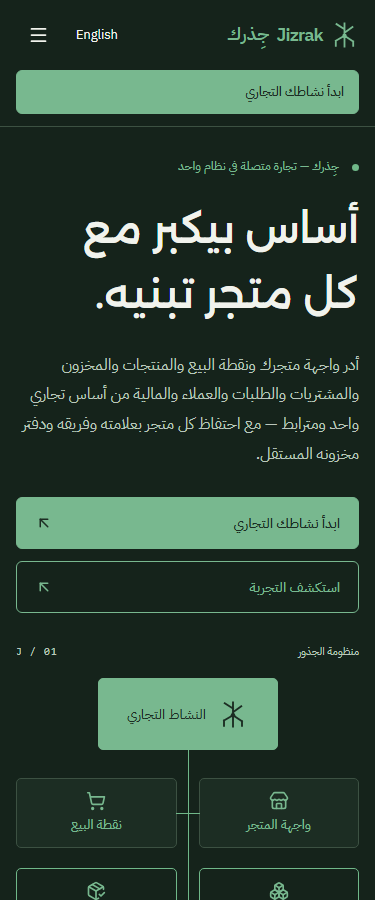
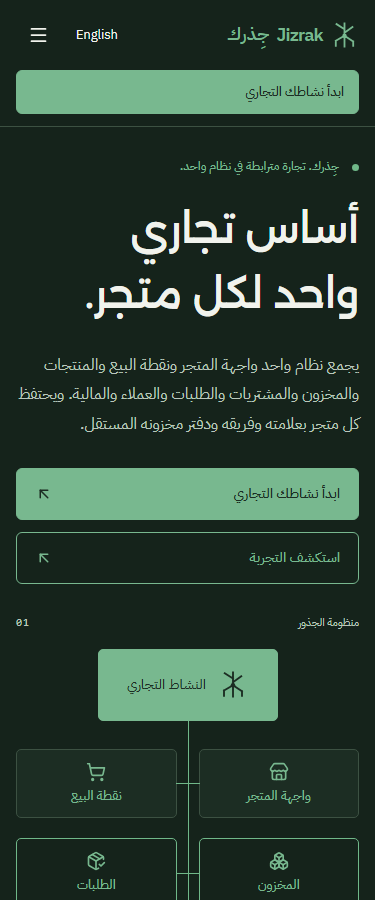
Verify Apple replacement candidate

diff --git a/docs/apple-implementation.md b/docs/apple-implementation.md
@@ -1,5 +1,7 @@
 # `/apple` implementation verification
 
+Updated 8 September 2026 for the complete single-Store positioning candidate.
+
 Implemented as an independent sibling route. `/` remains the existing landing page; candidate styles, composition, controls and conceptual visuals live under `src/apple`. The only shared edits are additive route registration and route-aware canonical, OG and robots metadata. No shared copy, palette, root artwork, root CSS or root motion was changed.
 
 ## Content and design
@@ -15,18 +17,16 @@ Implemented as an independent sibling route. `/` remains the existing landing pa
 
 - TypeScript and ESLint: pass.
 - Full Vitest suite: 20 tests pass.
-- Existing root browser suite: 18 tests pass on each of Chromium, Firefox and WebKit (54 checks).
-- Candidate browser suite: 7 tests pass on each engine (21 checks), including focused reruns after fixes.
-- Review production build: pass, server-rendered/prerendered `/` and `/apple`.
-- Candidate suite against built output: 7 Chromium tests pass.
-- Axe: zero candidate violations in Arabic/English and light/dark across the tested engines.
-- Responsive checks: 320, 375, 768, 1024 and 1440 CSS pixels in both locales/themes; 200% text reflow at 320 pixels; forced colors; reduced motion; system theme changes.
+- Full Chromium browser suite: 28 tests pass, including 10 candidate tests and 18 root-route regression tests.
+- Review production build: pass; server-rendered/prerendered `/` and `/apple` were emitted.
+- Built-output audit: pass for English/Arabic and light/dark at 375×900, including serious/critical axe checks, overflow checks, and synthetic performance observations.
+- Candidate responsive/accessibility checks: 320, 375, 768, 1024 and 1440 CSS pixels; both locales and themes; 200% text reflow at 320 pixels; forced colors; reduced motion; system theme changes.
 - Resilience: disabled JavaScript/native disclosures, failed fonts, unavailable storage, browser-language initialization, deep links, language/disclosure/focus continuity, mobile Escape/selection dismissal, and client history navigation.
-- Root metadata and typography remain correct during Arabic `/` → `/apple` → back/forward navigation.
-- [Root comparison](apple-evidence/root-comparison.json): all eight full-page screenshots are byte-identical before/after implementation and after returning from `/apple`. Baselines use the starting commit `6ac01a580b9b7a2b1aa6e9d17604b14b2eb565bf`, reduced motion, 375/1440 widths, both locales/themes, 1000-pixel viewport height and the first feature disclosure expanded. Baselines were captured before implementing the route and were never replaced.
-- Final build emits separate candidate assets (about 7.64 kB JavaScript and 11.61 kB CSS before gzip), independent of root motion.
+- Content coverage: 778 bilingual entries; all 16 substantive topic identities; all 17 feature groups; visible, expanded, conditional, metadata, superseded, and excluded states are represented in [the coverage manifest](apple-content-coverage.json).
+- Root route: automated route-history assertions preserve root typography, layout, localized metadata, and return behavior. The [root comparison record](apple-evidence/root-comparison.json) reports exact byte matches at 375 pixels and small exact-image mismatches at 1440 pixels; visual inspection shows the desktop before/after/return captures are equivalent, but this is recorded as a limitation rather than converted into a pass claim.
+- Final build emits separate candidate assets (`apple-*.js` and `apple-*.css`); the root entry does not eagerly import the candidate module.
 
-The initial all-engine run could not locate Firefox/WebKit in the default cache. Both are available through `PLAYWRIGHT_BROWSERS_PATH=.tools/browsers`. Cross-browser checks found a 200% text navigation overflow, fixed with wrapping. Focus retention is tested through keyboard activation because WebKit does not focus buttons on pointer clicks. Reading-location verification uses a coordinate click on the sticky language control so locator auto-scrolling does not alter the initial position.
+The browser suite was run with Chromium in this checkout. Firefox/WebKit coverage is not claimed for this gate. Focus retention is tested through keyboard activation because pointer clicks do not focus buttons consistently across browsers. The evidence capture uses reduced motion and waits for fonts before screenshots; exact-image comparison remains sensitive to rendering differences.
 
 Production destination configuration is not supplied in this checkout. Review-build pending states were verified; live product/legal destinations and a configured production release were not exercised. No deployment was performed. Physical low-end hardware and assistive-technology reading remain manual review items; automated accessibility does not substitute for those checks.
 
@@ -45,7 +45,10 @@ Standards: 0 outstanding findings. Spec: 0 outstanding findings.
 - [English desktop](apple-evidence/apple-en-light-1440.png)
 - [Arabic mobile, dark](apple-evidence/apple-ar-dark-375.png)
 - [Arabic desktop](apple-evidence/apple-ar-light-1440.png)
-- The evidence directory includes all eight candidate combinations and root before/after/return screenshots.
+- The evidence directory includes all eight candidate combinations and root before/after/return screenshots. `docs/screenshots/built-mobile-*.png` contains the four built-output mobile locale/theme captures.
 - With the dev server on port 3000, run `node scripts/apple-evidence.mjs` to compare against the preserved baseline and refresh candidate/after/return captures.
-- Regenerate the manifest by bundling `scripts/apple-coverage.ts` with the installed esbuild, then running the generated module.
+- Regenerate the manifest with `node node_modules/jiti/lib/jiti-cli.mjs scripts/apple-coverage.ts`.
+- Run the built-output audit with the review server on port 4000 using `node scripts/audit-built.mjs`; it refreshes `docs/performance.json` and the built mobile screenshots.
 - Standard commands: `bun run typecheck`, `bun run lint`, `bun run test`, `bun run build:preview`, and `bun run e2e`. This machine used the corresponding local Node entry points because Bun was not on PATH.
+
+Configuration-dependent checks remain intentionally open: production start, demo, sign-in, privacy, and terms destinations were not supplied, so review-mode pending states were verified instead. No deployment, redirect, indexing change, analytics, or conversion measurement was performed. Manual screen-reader pronunciation, physical low-end hardware, and human Arabic/English editorial approval remain outside automated evidence.
